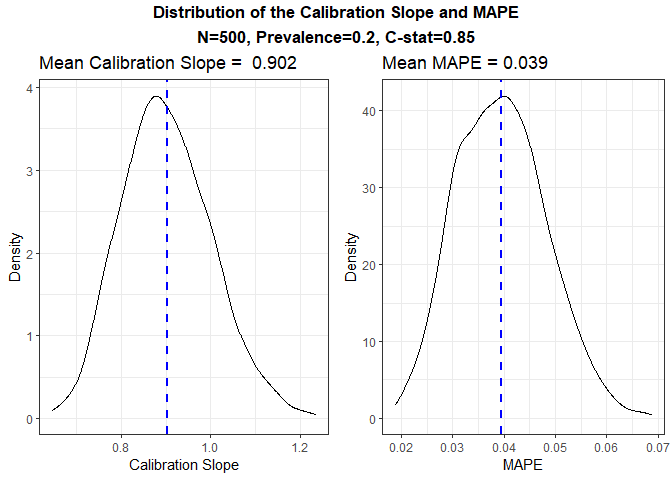
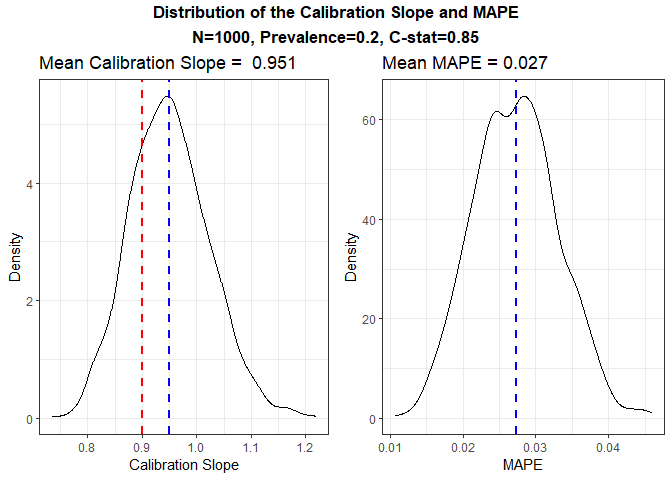
h

diff --git a/README.md b/README.md
@@ -54,13 +54,13 @@ library(samplesizedev)
 # Sample size=500; Prevalence=0.2; C-statistic=0.8; Number of predictors=10; 
 
 
-expected_cs(n = 500, phi = 0.2, c = 0.85, p = 10)
+expected_cs(n = 1000, phi = 0.2, c = 0.85, p = 10)
 ```
 
 <img src="man/figures/README-example-1.png" width="100%" />
 
-    #>     N Mean_CS  SD_CS RMSD_CS Pr(CS<0.8) Mean_MAPE SD_MAPE Prev. C-Stat.
-    #> 1 500   0.902 0.1002  0.1404       0.16    0.0393  0.0087   0.2    0.85
+    #>      N Mean_CS  SD_CS RMSD_CS Pr(CS<0.8) Mean_MAPE SD_MAPE Prev. C-Stat.
+    #> 1 1000   0.951 0.0726  0.0877       0.01    0.0273  0.0058   0.2    0.85
     #>    # Predictors
     #> 1            10
 
